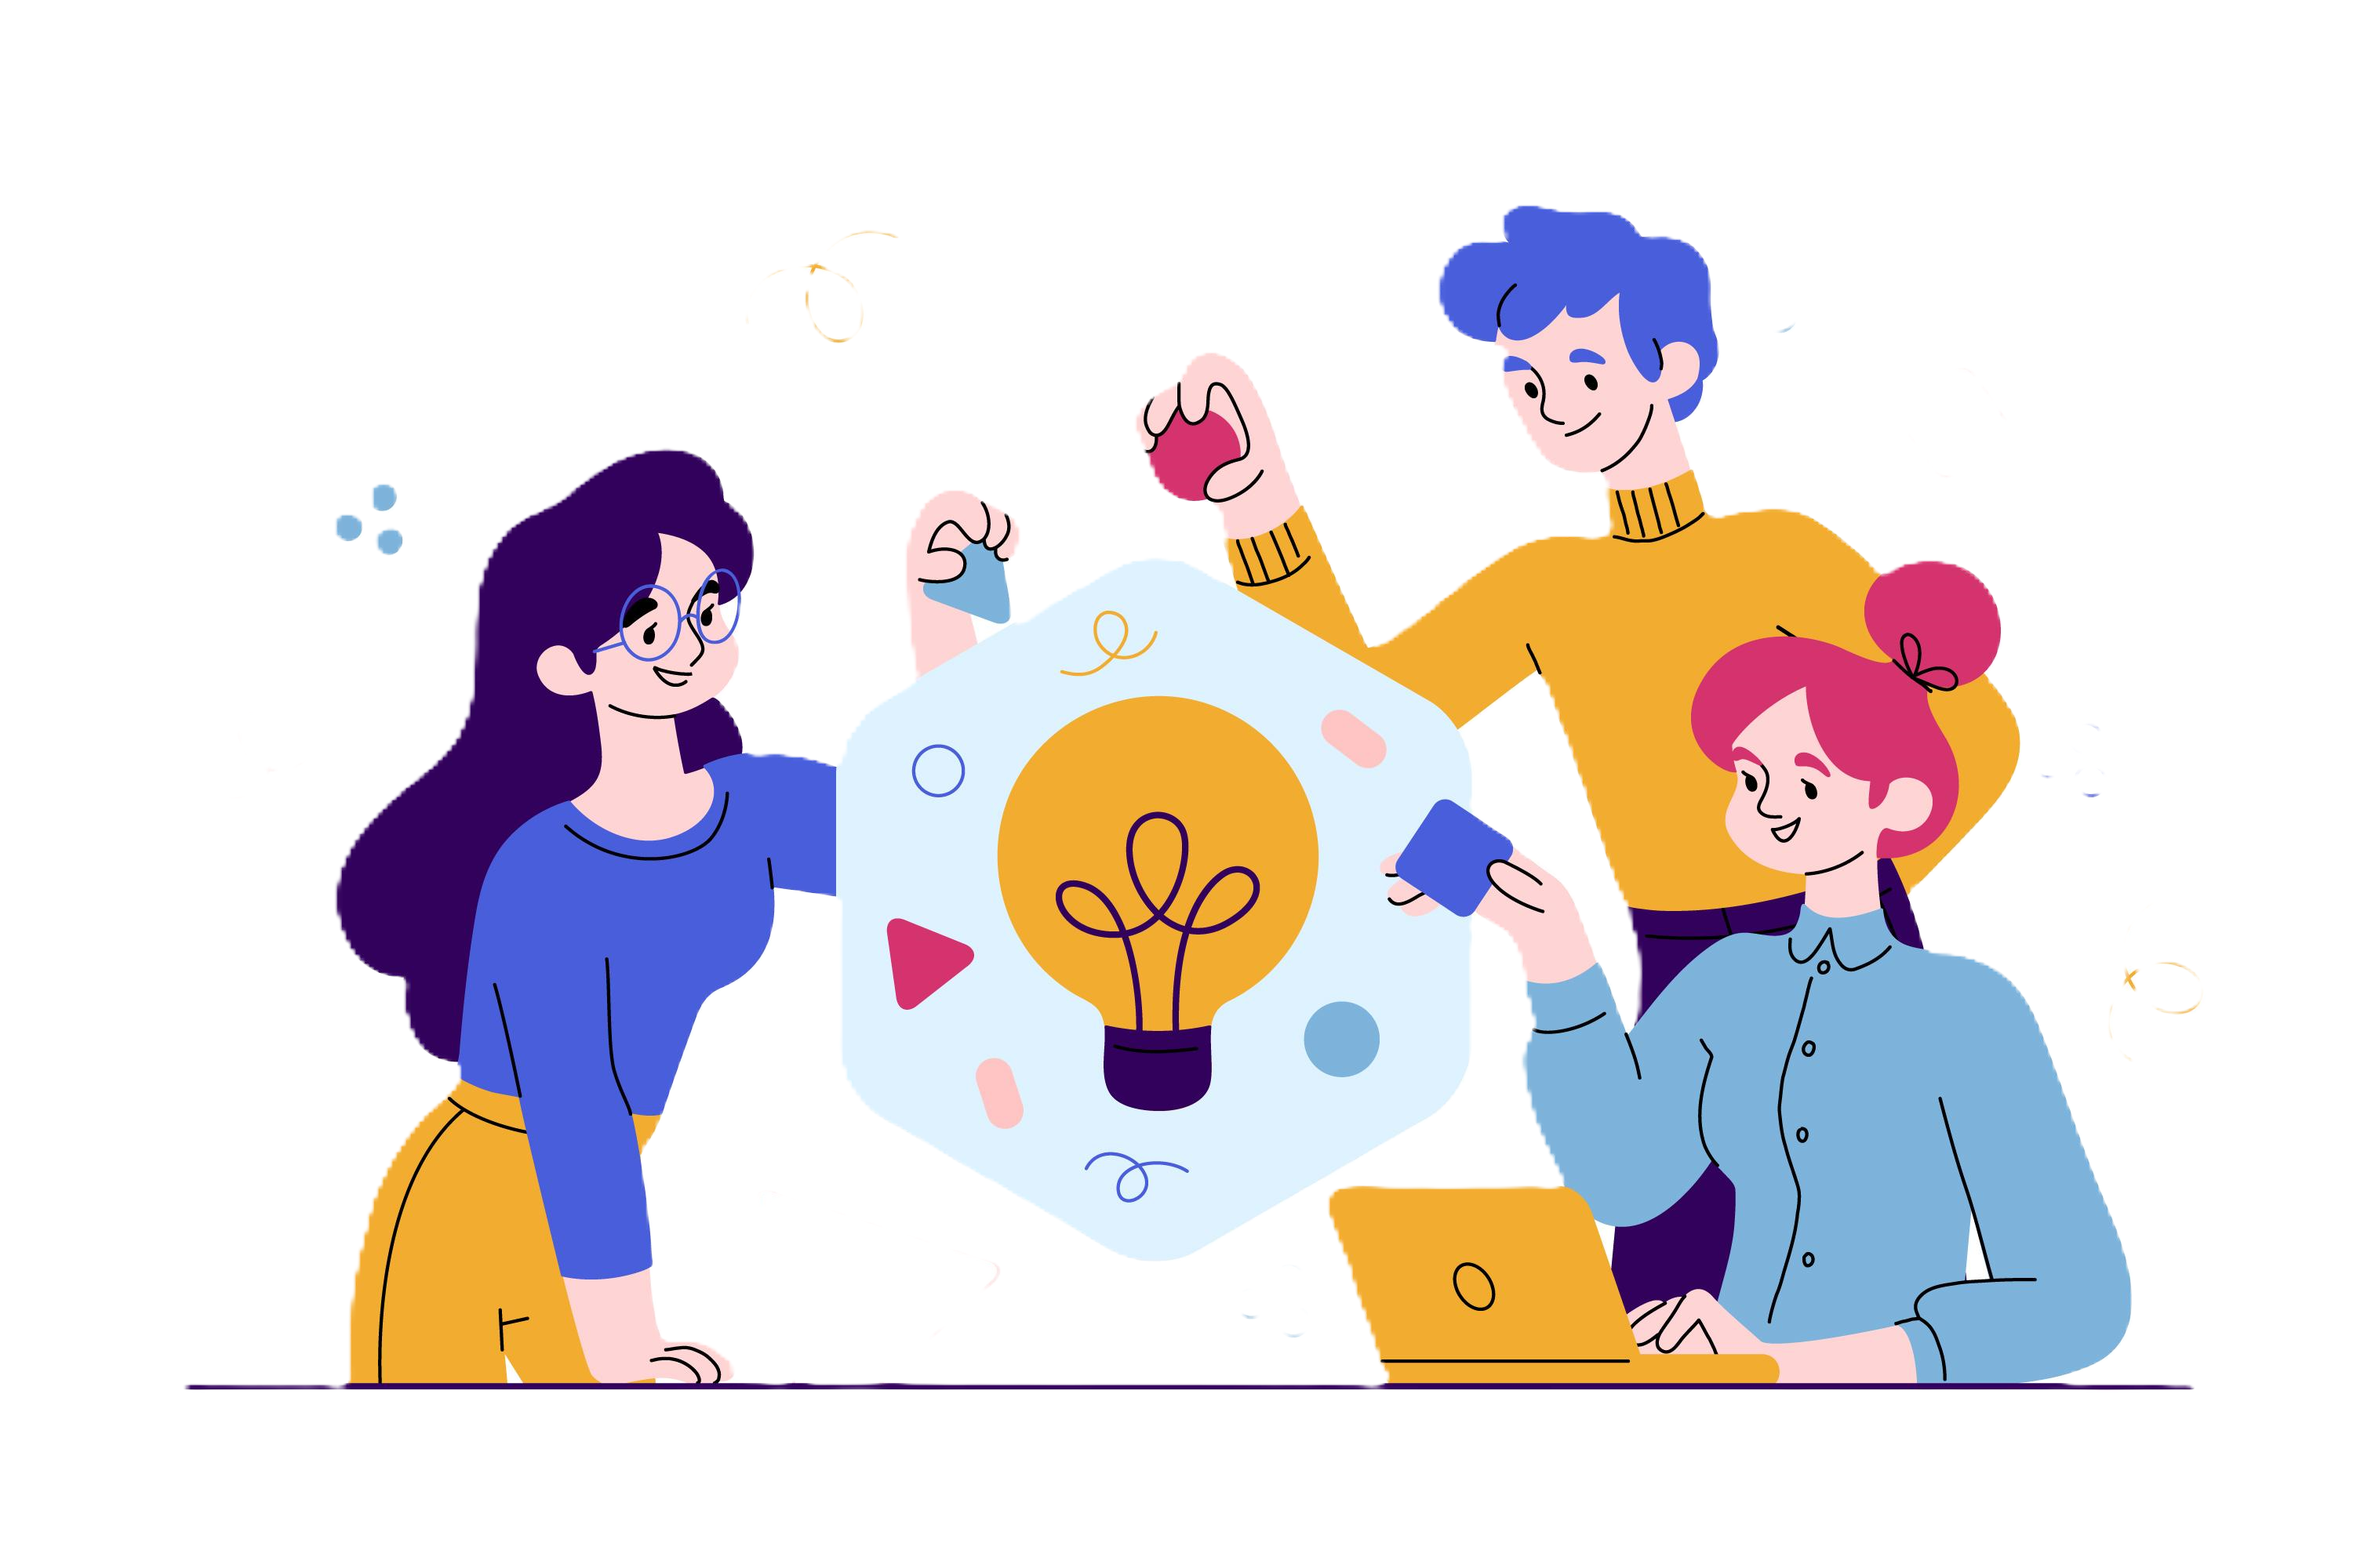
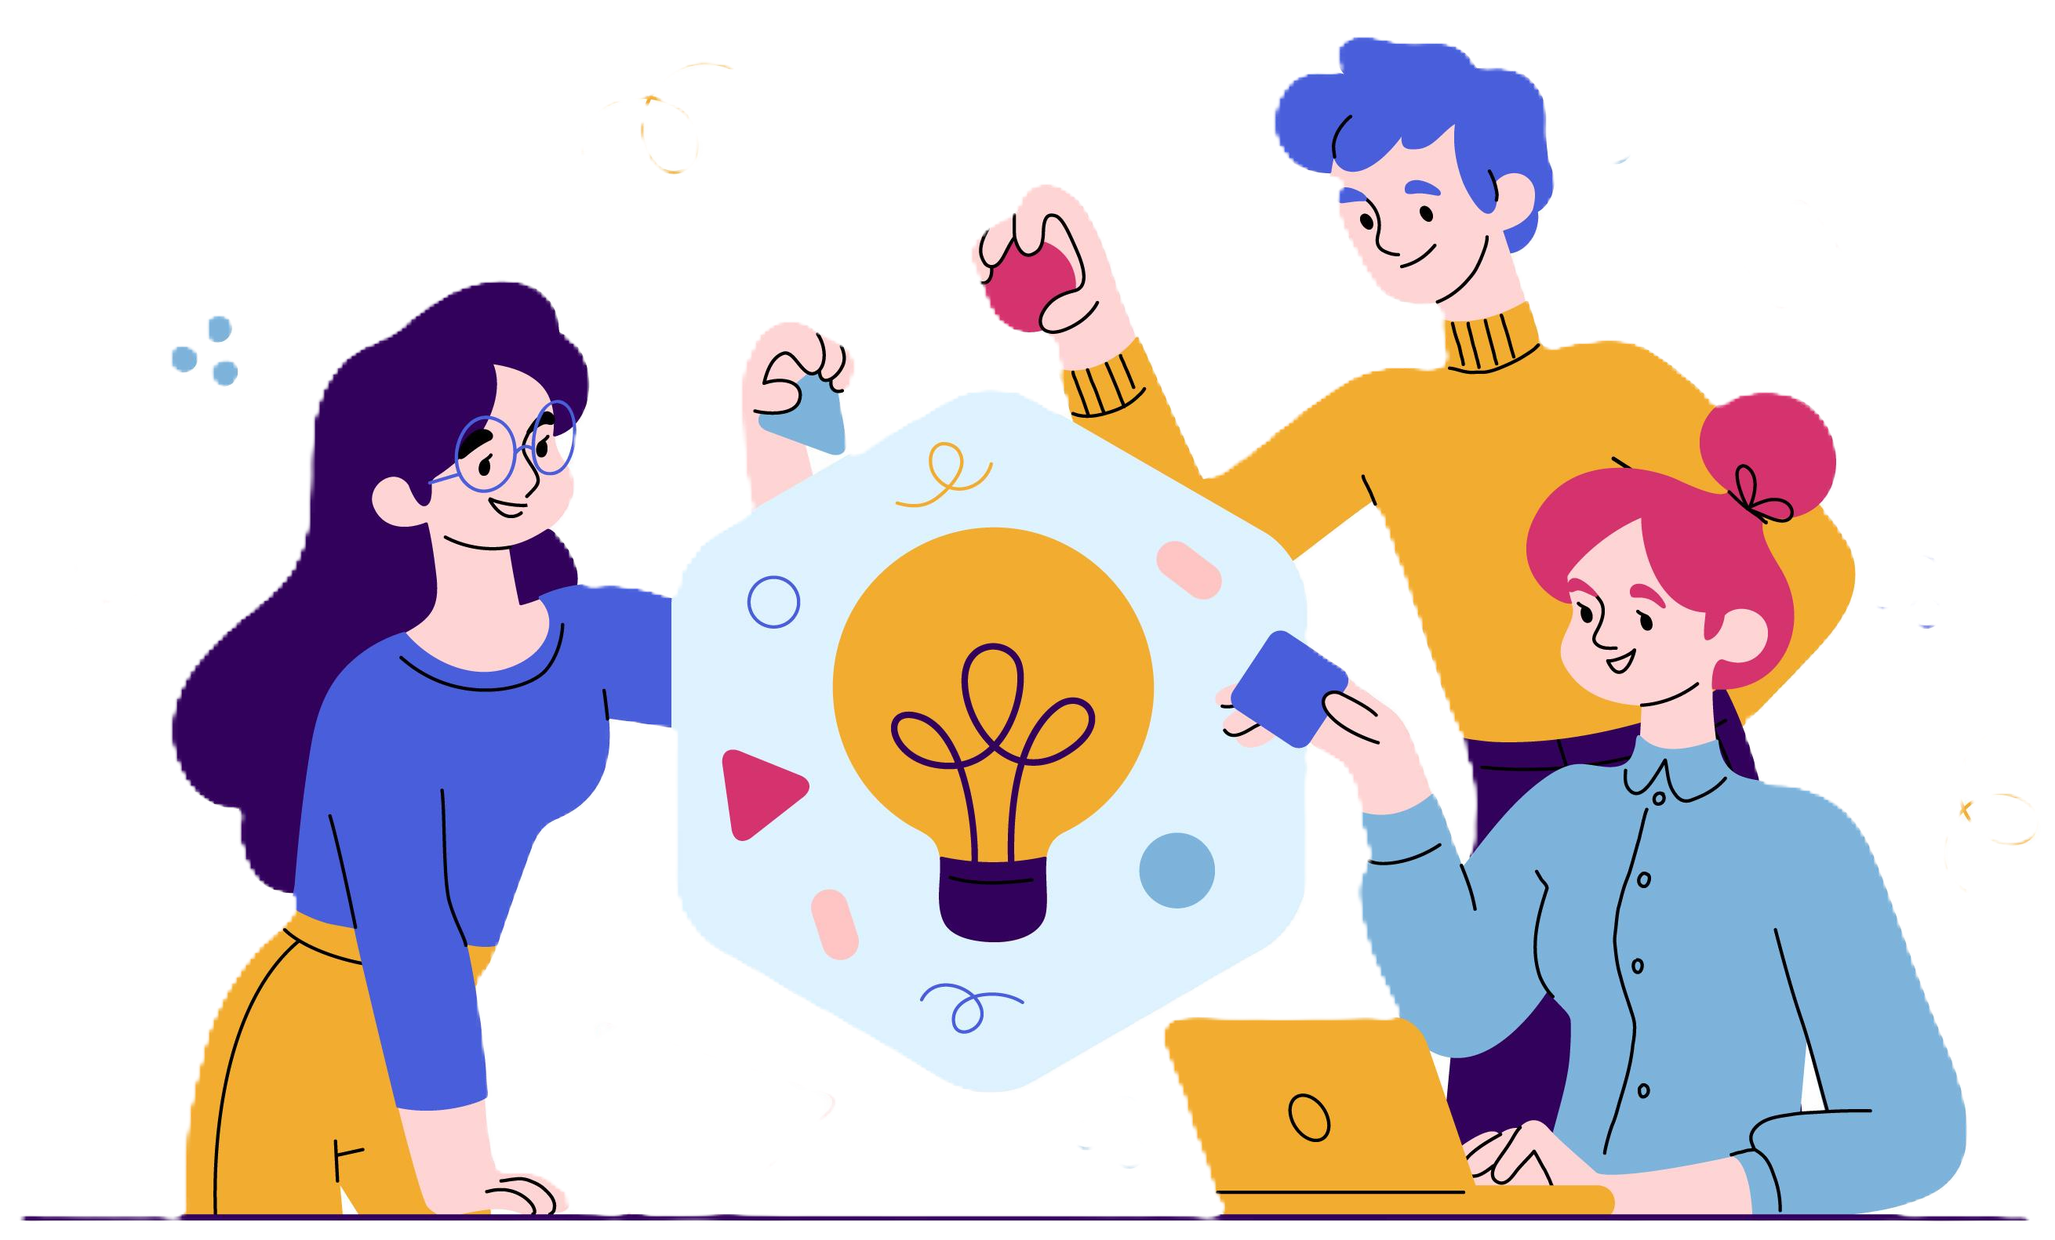
Готовый? Адаптив

diff --git a/style.css b/style.css
@@ -60,6 +60,8 @@ body{
 }
 
 .header_text {
+    max-width: 415px;
+    width: 100%;
     font-size: 15px;
     font-weight: 400px;
 }
@@ -75,12 +77,13 @@ body{
 
 .header_info{
     display: flex;
+    justify-content: space-between;
 }
 
 .header_info img{
-    max-width: 570px;
+    max-width: 640px;
     width: 100%;
-    max-height: 380px;
+    max-height: 100vh;
     height: 100%;
 }
 
@@ -145,7 +148,8 @@ body{
 }
 
 .partners_logo img{
-    max-height: 50px;
+    max-width: 25vh;
+    max-height: 10vh;
     height: 100%;
     margin-top: 50px;
     margin-bottom: 50px;
@@ -181,8 +185,10 @@ body{
 }
 
 .society img{
-    max-width: 600px;
+    max-width: 100vh;
     width: 100%;
+    max-height: 430px;
+    height: 100%;
 }
 
 .sc_1{
@@ -219,8 +225,10 @@ body{
 }
 
 .security img{
-    max-width: 600px;
+    max-width: 100vh;
     width: 100%;
+    max-height: 565px;
+    height: 100%;
 }
 
 .sr_1{
@@ -269,6 +277,7 @@ body{
     box-shadow: 0px 5px 10px 0px rgba(0, 0, 0, 0.5);
     border-radius: 5px;
     text-align: center;
+    margin: 0 5px;
 }
 
 .mem_info{
@@ -376,13 +385,90 @@ body{
 }
 
 /*Media*/
-@media screen and (max-width: 880px){
+@media screen and (max-width: 1024px){
     .container{
-        padding: 0 15px;
+        padding: 0 20px;
     }
 
     .link p{
-        padding: 0 15px;
+        padding: 0 20px;
+    }
+
+    .partners{
+        padding: 0 20px;
+    }
+
+    .society{
+        padding: 0 20px;
+    }
+
+    .security{
+        padding: 0 20px;
+    }
+
+    .team{
+        padding: 0 20px;
+    }
+
+    .ft_info{
+        padding: 50px 20px;
+    }
+}
+
+@media screen and (max-width: 840px) {
+    .header_info{
+        display: flex;
+        flex-direction: column-reverse;
+    }
+
+    .partners_logo{
+        display: flex;
+        flex-direction: column;
+        align-items: center;
+    }
+
+    .society{
+        display: flex;
+        flex-direction: column;
+        align-items: center;
+    }
+
+    .sc_1{
+        margin-top: 30px;
+    }
+
+    .sc_info{
+        margin: 0;
+    }
+
+    .security{
+        display: flex;
+        flex-direction: column-reverse;
+        align-items: center;
+    }
+
+    .sr_1{
+        margin-top: 30px;
+    }
+
+    .secur_info{
+        margin: 0;
+    }
+
+    .team{
+        margin-top: 40px;
+    }
+
+    .team_members{
+        display: flex;
+        flex-direction: column;
+        align-items: center;
+        justify-content: space-between;
+        margin-bottom: 10px;
+    }
+
+    .mem{
+        margin-bottom: 35px;
     }
 }
 
